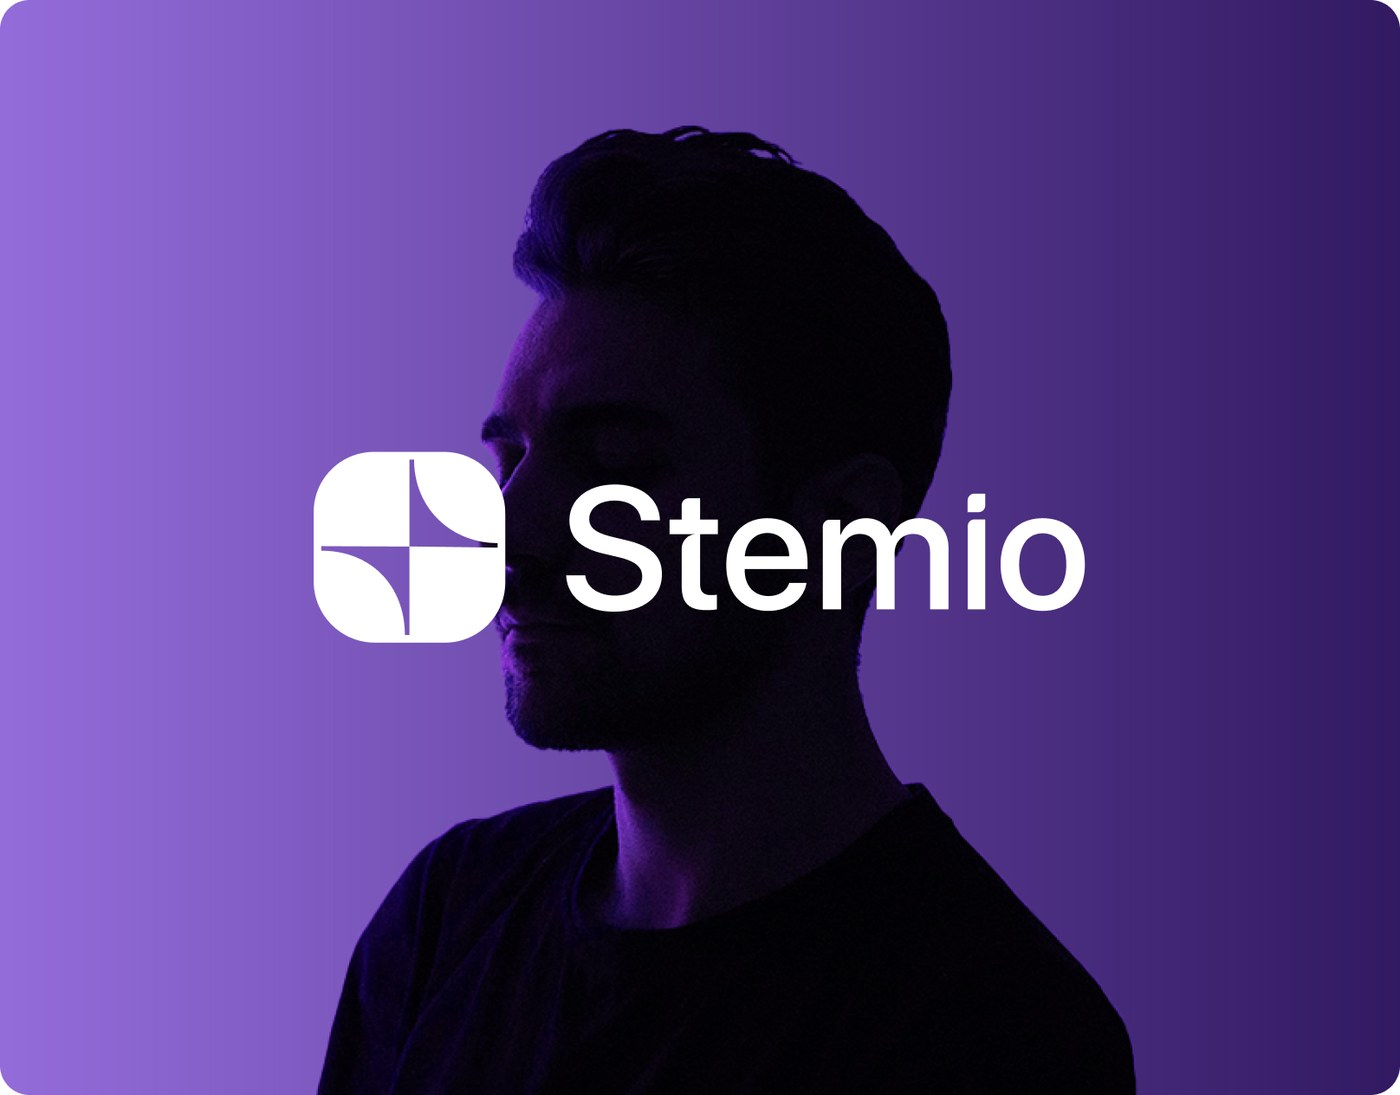
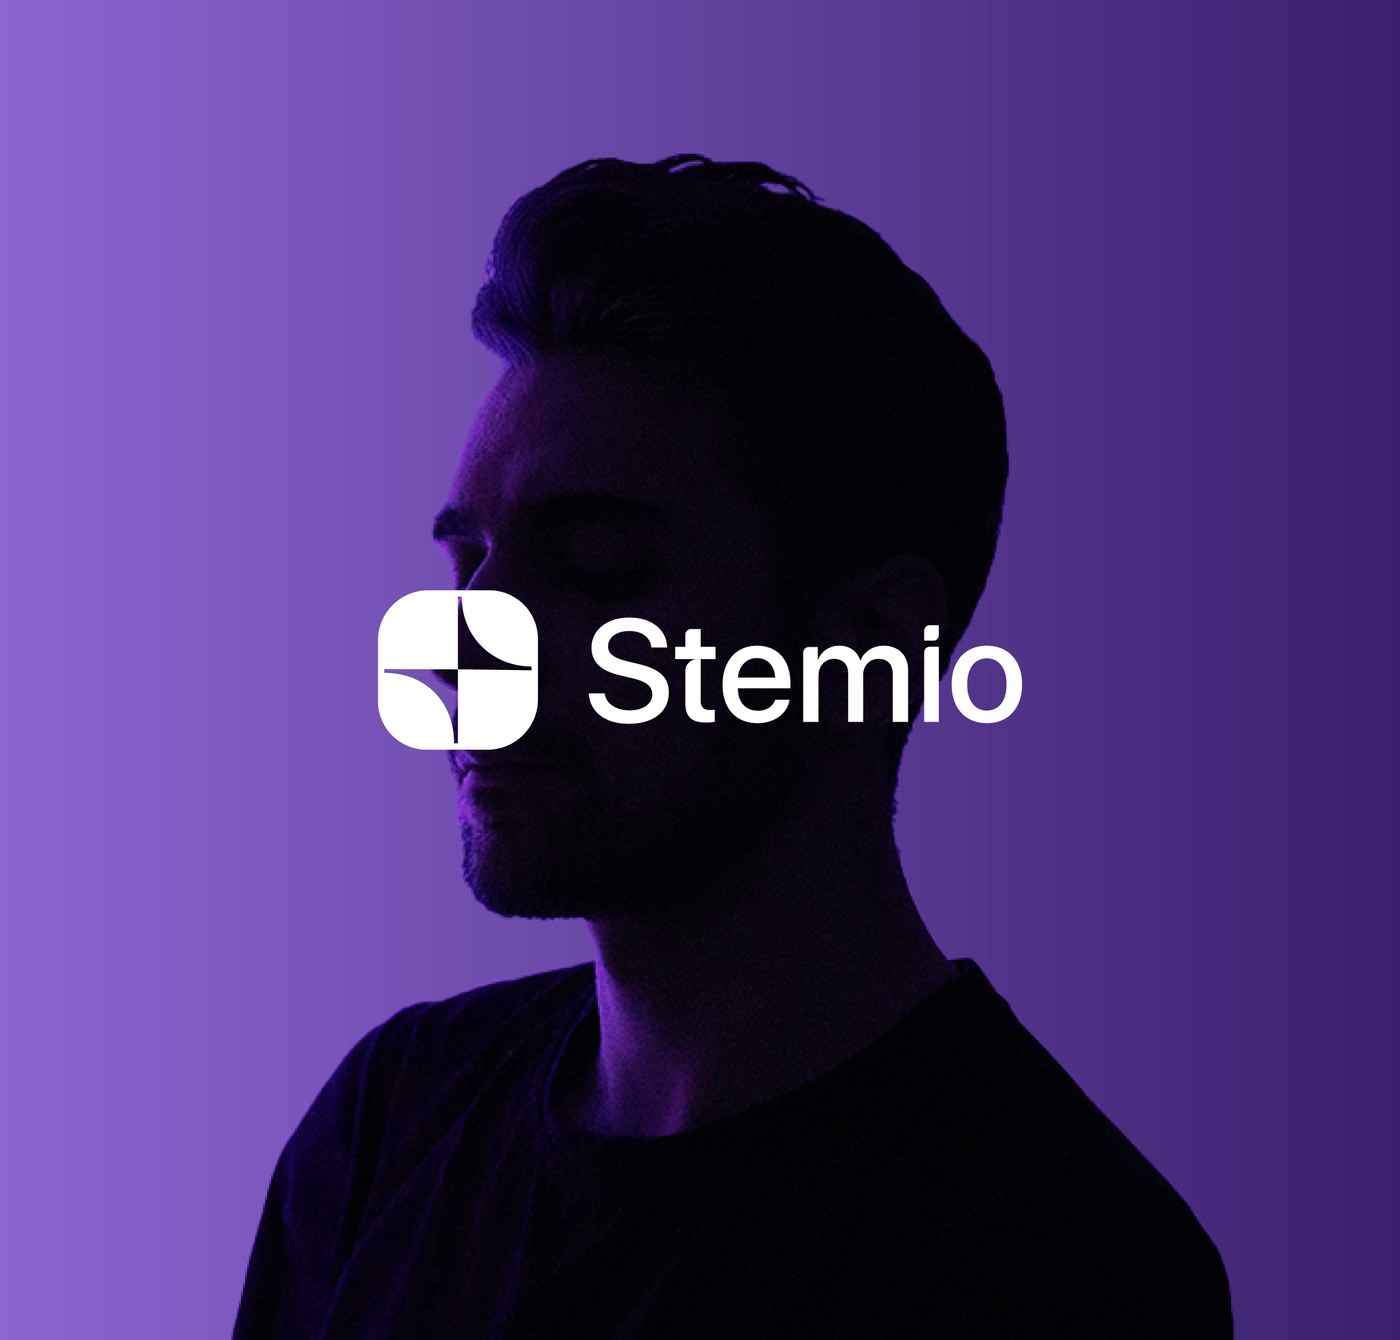
Stemio: обновлена обложка плитки из Figma 3560-32759 (v3)

diff --git a/index.html b/index.html
@@ -109,7 +109,7 @@
         <li class="tile reveal" data-cat="graph">
           <a class="tile__link" href="case.html?id=stemio-brand" aria-label="Кейс: Stemio — фирменный стиль">
             <div class="tile__media tile__media--image" data-tone="4">
-              <img src="assets/sb-card.jpg?v=2" alt="Stemio — фирменный стиль, обложка" loading="lazy" />
+              <img src="assets/sb-card.jpg?v=3" alt="Stemio — фирменный стиль, обложка" loading="lazy" />
             </div>
             <div class="tile__cap">
               <h3 class="tile__title">Stemio</h3>

diff --git a/projects.js b/projects.js
@@ -243,7 +243,7 @@ window.PROJECTS = {
   "stemio-brand": {
     title: "Stemio",
     subtitle: "Логотип и фирменный стиль",
-    card: "assets/sb-card.jpg?v=2",
+    card: "assets/sb-card.jpg?v=3",
     cardMeta: "Логотип и фирменный стиль",
     tone: 4,
     hideHero: true,

diff --git a/case.html b/case.html
@@ -46,7 +46,7 @@
   </button>
 
   <script src="https://cdn.jsdelivr.net/npm/lenis@1.1.14/dist/lenis.min.js"></script>
-  <script src="projects.js?v=130"></script>
+  <script src="projects.js?v=131"></script>
   <script src="case.js?v=66"></script>
   <script src="script.js?v=23"></script>
 </body>
